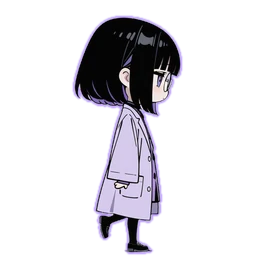
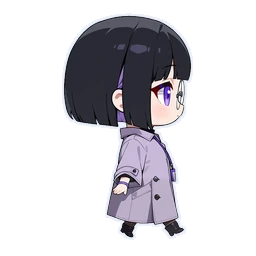
feat(story): 瑠璃と茜をちびの絵に差し替えた
仮の人形をやめ、asagi・nadeshiko のちび (9枚ずつ) をスプライトで置いた。
立ったまま、あなたのいる方を向く。紫苑の絵を新しい版に、山吹の絵を追加した。

Claude-Session: https://claude.ai/code/session_018rY9NxK2bFfXr12Qme73RJ

Changed region(s): [[0.25, 0.0625, 0.75, 1.0]]

diff --git a/js3d/story-world.js b/js3d/story-world.js
@@ -249,22 +249,27 @@ export function openWorld(protocols, opts = {}) {
      (Sprite は scale.x を負にしても裏返らない。前に「左へ歩くと後ろ向きに走る」と言われたのはこのため) */
   const shionAt = M.find(map, 'K')[0];
   const loader = new THREE.TextureLoader();
-  const chibi = {};
-  for (const dir of ['front', 'side', 'back']) {
-    for (const fr of ['stand', 'walk1', 'walk2']) {
-      const tex = keep(loader.load('art/chibi/shion_' + dir + '_' + fr + '.webp'));
-      tex.colorSpace = THREE.SRGBColorSpace;
-      chibi[dir + '_' + fr] = tex;
-      if (dir === 'side') {
-        /* 左向き: 同じ絵を、UV を左右反転して貼る */
-        const left = keep(tex.clone());
-        left.wrapS = THREE.RepeatWrapping;
-        left.repeat.set(-1, 1);
-        left.offset.set(1, 0);
-        chibi['left_' + fr] = left;
+  /* id ごとの9枚 (art/chibi/<id>_<向き>_<足>.webp) と、左向き3枚 */
+  const chibiSet = (id) => {
+    const set = {};
+    for (const dir of ['front', 'side', 'back']) {
+      for (const fr of ['stand', 'walk1', 'walk2']) {
+        const tex = keep(loader.load('art/chibi/' + id + '_' + dir + '_' + fr + '.webp'));
+        tex.colorSpace = THREE.SRGBColorSpace;
+        set[dir + '_' + fr] = tex;
+        if (dir === 'side') {
+          /* 左向き: 同じ絵を、UV を左右反転して貼る */
+          const left = keep(tex.clone());
+          left.wrapS = THREE.RepeatWrapping;
+          left.repeat.set(-1, 1);
+          left.offset.set(1, 0);
+          set['left_' + fr] = left;
+        }
       }
     }
-  }
+    return set;
+  };
+  const chibi = chibiSet('shion');
   /* 発光 (ブルーム) で白く飛ばないよう、トーンマップを外して明るさを少し抑える */
   const shionMat = keep(new THREE.SpriteMaterial({ map: chibi.front_stand, transparent: true, toneMapped: false }));
   shionMat.color.setScalar(0.7);
@@ -276,6 +281,23 @@ export function openWorld(protocols, opts = {}) {
   const shionShadow = new THREE.Mesh(keep(new THREE.CircleGeometry(0.55, 24)), keep(new THREE.MeshBasicMaterial({ color: 0x000000, transparent: true, opacity: 0.45 })));
   shionShadow.rotation.x = -Math.PI / 2;
   scene.add(shion, shionShadow);
+  /* 立っている人 (瑠璃・茜): 紫苑と同じ大きさのちび。あなたのいる方を向く */
+  const npcChibi = (id) => {
+    const set = chibiSet(id);
+    const mat = keep(new THREE.SpriteMaterial({ map: set.front_stand, transparent: true, toneMapped: false }));
+    mat.color.setScalar(0.7);
+    const sp = new THREE.Sprite(mat);
+    sp.center.set(0.5, 0.02);
+    sp.scale.set(CHIBI, CHIBI, 1);
+    sp.userData = { set, mat };
+    return sp;
+  };
+  const faceTo = (sp, from, to) => {
+    const dx = to.x - from.x, dy = to.y - from.y;
+    const dir = Math.abs(dx) >= Math.abs(dy) ? (dx < 0 ? 'left' : 'side') : dy < 0 ? 'back' : 'front';
+    const tex = sp.userData.set[dir + '_stand'];
+    if (sp.userData.mat.map !== tex) { sp.userData.mat.map = tex; sp.userData.mat.needsUpdate = true; }
+  };
 
   /* あなた (機体4097) の3Dモデル: Blender で作った art/models/hero4097.glb (scripts/blender/chibi_rig.py。見た目の決まりは
      .claude/skills/compile-cast/hero-4097.md)。読めたら、仮の人型と入れ替える。読めなければ仮の人型のまま。
@@ -352,64 +374,21 @@ export function openWorld(protocols, opts = {}) {
   chief.position.copy(world(chiefPos, 0));
   chief.scale.setScalar(1);
 
-  /* 瑠璃 (1章の案内係): ちびキャラの絵ができるまでの仮の姿。水色の制服の人型と、頭のクラゲ (半透明の傘)。
-     名乗るまでは名札を「案内係」にする */
+  /* 瑠璃 (1章の案内係): ちびの絵 (asagi)。名乗るまでは名札を「案内係」にする */
   const ruriAt = M.find(map, 'R')[0];
   const ruriPos = ruriAt ? { x: ruriAt.x + 0.5, y: ruriAt.y + 0.5 } : { x: -99, y: -99 };
-  const ruri = new THREE.Group();
+  const ruri = ruriAt ? npcChibi('asagi') : new THREE.Group();
   if (ruriAt) {
-    const uni = keep(new THREE.MeshStandardMaterial({ color: 0xe8eef6, roughness: 0.6 }));
-    const navy = keep(new THREE.MeshStandardMaterial({ color: 0x223a6b, roughness: 0.6 }));
-    const hair = keep(new THREE.MeshStandardMaterial({ color: 0x9fdcf0, roughness: 0.5 }));
-    const skirt = new THREE.Mesh(keep(new THREE.ConeGeometry(0.3, 0.5, 18)), navy);
-    skirt.position.y = 0.62;
-    const top = new THREE.Mesh(keep(new THREE.CapsuleGeometry(0.17, 0.3, 6, 14)), uni);
-    top.position.y = 1.02;
-    const headR = new THREE.Mesh(keep(new THREE.SphereGeometry(0.18, 20, 14)), hair);
-    headR.position.y = 1.42;
-    const tails = [-0.2, 0.2].map((x) => { const t = new THREE.Mesh(keep(new THREE.CapsuleGeometry(0.06, 0.32, 4, 8)), hair); t.position.set(x, 1.3, -0.04); return t; });
-    const jelly = new THREE.Mesh(keep(new THREE.SphereGeometry(0.14, 16, 10, 0, Math.PI * 2, 0, Math.PI / 2)),
-      keep(new THREE.MeshBasicMaterial({ color: 0xbfefff, transparent: true, opacity: 0.55 })));
-    jelly.position.set(0.08, 1.58, 0);
-    const shins = [-0.08, 0.08].map((x) => { const l = new THREE.Mesh(keep(new THREE.CapsuleGeometry(0.05, 0.3, 4, 8)), uni); l.position.set(x, 0.22, 0); return l; });
-    const glow = new THREE.PointLight(0x7fdcff, 1.2, 3);
-    glow.position.set(0, 1.6, 0.4);
-    ruri.add(skirt, top, headR, jelly, glow, ...tails, ...shins);
-    ruri.userData = { jelly };
     ruri.position.copy(world(ruriPos, 0));
     scene.add(ruri);
     blob(1.1).position.copy(world(ruriPos, 0.015));
   } else ruri.visible = false;
 
-  /* 茜 (2章の家事係): ちびキャラの絵ができるまでの仮の姿。黒と深い赤のメイド服 (白は入れない。compile-cast)、黒い髪、頭に黒いレース、手にお盆。
-     名乗るまでは名札を「家事係」にする */
+  /* 茜 (2章の家事係): ちびの絵 (nadeshiko)。名乗るまでは名札を「家事係」にする */
   const akaneAt = M.find(map, 'N')[0];
   const akanePos = akaneAt ? { x: akaneAt.x + 0.5, y: akaneAt.y + 0.5 } : { x: -99, y: -99 };
-  const akane = new THREE.Group();
+  const akane = akaneAt ? npcChibi('nadeshiko') : new THREE.Group();
   if (akaneAt) {
-    const black = keep(new THREE.MeshStandardMaterial({ color: 0x15121a, roughness: 0.6 }));
-    const red = keep(new THREE.MeshStandardMaterial({ color: 0x7a1424, roughness: 0.55 }));
-    const skin = keep(new THREE.MeshStandardMaterial({ color: 0xf1d6c8, roughness: 0.7 }));
-    const skirt = new THREE.Mesh(keep(new THREE.ConeGeometry(0.34, 0.6, 18)), black);
-    skirt.position.y = 0.58;
-    const apron = new THREE.Mesh(keep(new THREE.ConeGeometry(0.26, 0.5, 18, 1, true, -0.9, 1.8)), red);
-    apron.position.y = 0.6;
-    const top = new THREE.Mesh(keep(new THREE.CapsuleGeometry(0.17, 0.3, 6, 14)), red);
-    top.position.y = 1.02;
-    const face = new THREE.Mesh(keep(new THREE.SphereGeometry(0.17, 20, 14)), skin);
-    face.position.y = 1.42;
-    const hair = new THREE.Mesh(keep(new THREE.SphereGeometry(0.19, 20, 14, 0, Math.PI * 2, 0, Math.PI * 0.6)), black);
-    hair.position.set(0, 1.45, -0.02);
-    const lace = new THREE.Mesh(keep(new THREE.TorusGeometry(0.15, 0.025, 6, 20, Math.PI)), black);
-    lace.position.set(0, 1.56, 0.02);
-    const tray = new THREE.Mesh(keep(new THREE.CylinderGeometry(0.2, 0.2, 0.02, 20)), keep(new THREE.MeshStandardMaterial({ color: 0x8a6a3a, roughness: 0.3, metalness: 0.6 })));
-    tray.position.set(0, 1.0, 0.3);
-    const cup = new THREE.Mesh(keep(new THREE.CylinderGeometry(0.05, 0.04, 0.06, 12)), red);
-    cup.position.set(0.05, 1.05, 0.3);
-    const shins = [-0.08, 0.08].map((x) => { const l = new THREE.Mesh(keep(new THREE.CapsuleGeometry(0.05, 0.3, 4, 8)), black); l.position.set(x, 0.22, 0); return l; });
-    const glow = new THREE.PointLight(0xff6a5a, 0.9, 3);
-    glow.position.set(0, 1.6, 0.4);
-    akane.add(skirt, apron, top, face, hair, lace, tray, cup, glow, ...shins);
     akane.position.copy(world(akanePos, 0));
     scene.add(akane);
   }
@@ -835,8 +814,8 @@ export function openWorld(protocols, opts = {}) {
       g.userData.body.rotation.y = Math.sin(t * 0.9 + (g === chief ? 1 : 0)) * 0.7;
       g.userData.r1.material.color.setRGB(0.75 + 0.25 * Math.abs(Math.sin(t * 3)), 0.1, 0.12);
     }
-    if (ruriAt) { ruri.rotation.y = Math.atan2(pos.x - ruriPos.x, pos.y - ruriPos.y); ruri.userData.jelly.position.y = 1.58 + Math.sin(t * 1.6) * 0.03; }
-    if (akaneAt) akane.rotation.y = Math.atan2(pos.x - akanePos.x, pos.y - akanePos.y);
+    if (ruriAt) { faceTo(ruri, ruriPos, pos); ruri.position.copy(world(ruriPos, Math.sin(t * 2 + 1) * 0.015)); }
+    if (akaneAt) { faceTo(akane, akanePos, pos); akane.position.copy(world(akanePos, Math.sin(t * 2 + 2) * 0.015)); }
     for (const f of frags) if (f.mesh.visible) { f.mesh.rotation.y = t * 1.2; f.mesh.position.y = 0.7 + Math.sin(t * 2 + f.p.x) * 0.06; }
     scenery.update(t, dt);
     syncGuide(t, dt);

diff --git a/three-play.html b/three-play.html
@@ -4755,7 +4755,7 @@
       "./js3d/story-scenery-mansion.js": "./js3d/story-scenery-mansion.js?v=c47d97ebb0",
       "./js3d/story-scenery.js": "./js3d/story-scenery.js?v=9fa267bcf9",
       "./js3d/story-ui.js": "./js3d/story-ui.js?v=304412b17f",
-      "./js3d/story-world.js": "./js3d/story-world.js?v=1c84e322c4",
+      "./js3d/story-world.js": "./js3d/story-world.js?v=b988efe4ec",
       "./js3d/story.js": "./js3d/story.js?v=31a211f66d",
       "./js3d/support.js": "./js3d/support.js?v=efb00a908c",
       "./js3d/theme.js": "./js3d/theme.js?v=932e1d5eb8",
@@ -4820,7 +4820,7 @@
   <link rel="modulepreload" href="js3d/stats-data.js?v=61334c9347">
   <link rel="modulepreload" href="js3d/story.js?v=31a211f66d">
   <link rel="modulepreload" href="js3d/story-ui.js?v=304412b17f">
-  <link rel="modulepreload" href="js3d/story-world.js?v=1c84e322c4">
+  <link rel="modulepreload" href="js3d/story-world.js?v=b988efe4ec">
   <link rel="modulepreload" href="js3d/rewards.js?v=ef3a012bdb">
   <link rel="modulepreload" href="js3d/gachafx.js?v=24484640c3">
   <link rel="modulepreload" href="js3d/cosmetics-ui.js?v=4f9c9e5f98">
